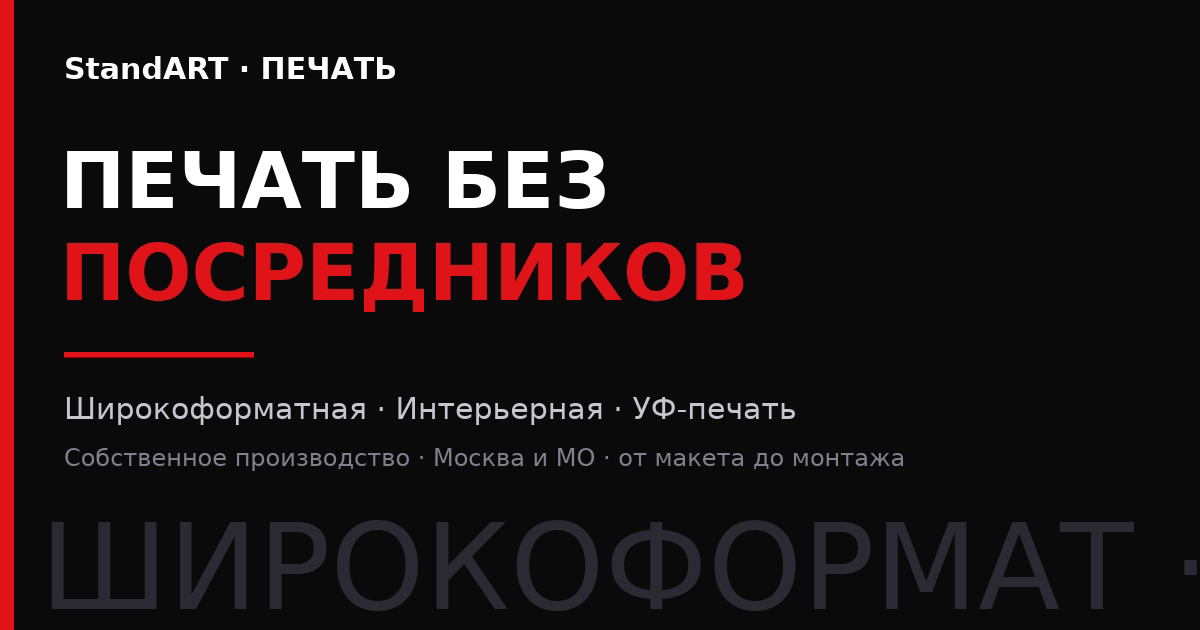
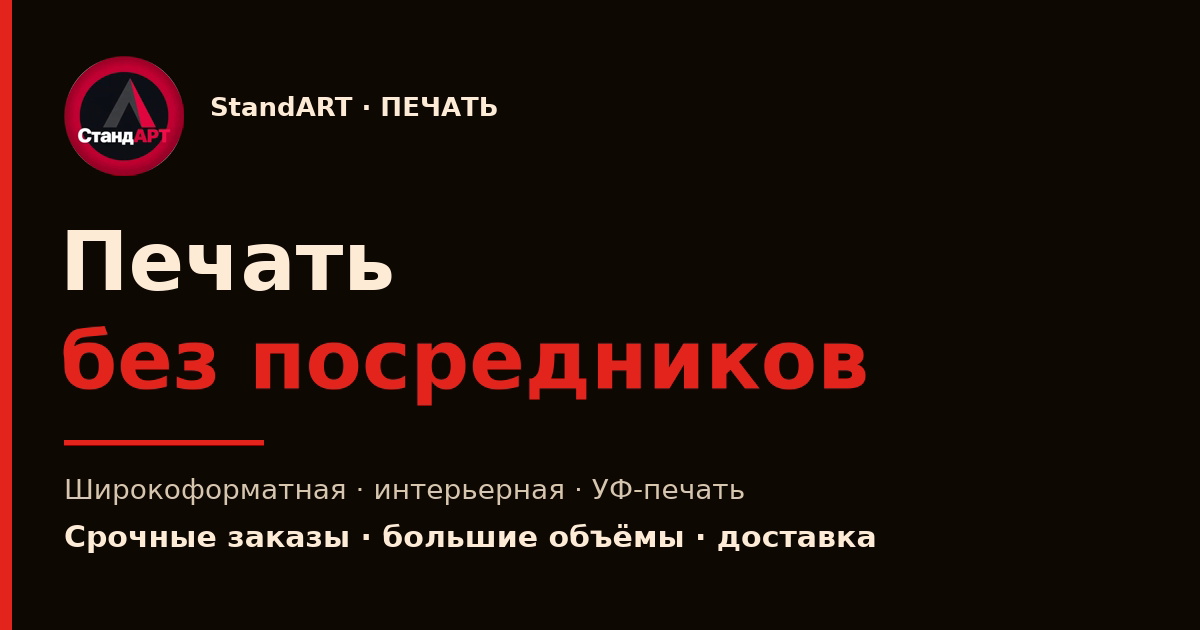
brand: палитра стандарт.art (walnut/cream/apple), Inter, логотип, срочность+объёмы+доставка, новый OG

diff --git a/index.html b/index.html
@@ -5,7 +5,7 @@
 <meta name="viewport" content="width=device-width, initial-scale=1">
 <title>StandART — широкоформатная, интерьерная и УФ-печать. Собственное производство, Москва и МО</title>
 <meta name="description" content="Широкоформатная печать баннеров и оклейки, интерьерная фотопечать, УФ-печать на ПВХ, акриле, композите, стекле и металле. Собственное производство. Замер, монтаж. Москва и МО.">
-<meta name="theme-color" content="#0a0a0b">
+<meta name="theme-color" content="#100904">
 <link rel="canonical" href="https://rekprint78-hub.github.io/standart-print/">
 <meta property="og:type" content="website">
 <meta property="og:title" content="StandART — печать без посредников">
@@ -17,24 +17,38 @@
 <meta name="twitter:card" content="summary_large_image">
 <link rel="preconnect" href="https://fonts.googleapis.com">
 <link rel="preconnect" href="https://fonts.gstatic.com" crossorigin>
-<link href="https://fonts.googleapis.com/css2?family=Montserrat:wght@400;500;600;700;800;900&display=swap" rel="stylesheet">
+<link href="https://fonts.googleapis.com/css2?family=Inter:wght@400;500;600;700;800&display=swap" rel="stylesheet">
 <style>
+  /* ============================================================
+     StandART design system — единая база для всех сайтов Игоря.
+     Палитра и шрифт сняты с эталона стандарт.art (Inter 400/500).
+     Тема сайта задаётся только через роли ниже (--bg, --ink, ...).
+     ============================================================ */
   :root{
-    --bg:#0a0a0b;
-    --panel:#101013;
-    --panel-2:#16161a;
-    --line:rgba(255,255,255,.10);
-    --line-strong:rgba(255,255,255,.24);
-    --ink:#ffffff;
-    --ink-soft:#c6c6cd;
-    --muted:#82828d;
-    --red:#e1151b;
-    --red-soft:#ff3b40;
+    /* --- бренд-палитра --- */
+    --walnut:#100904;   /* основной тёмный фон */
+    --cream:#ffedd7;    /* основной текст */
+    --apple:#e3261c;    /* красный акцент (CTA, маркеры) */
+    --ember:#dc5000;    /* оранжевый акцент (второй план) */
+    --bark:#382416;
+    --cork:#40372e;
+    --drift:#6c5f51;
+    /* --- роли темы --- */
+    --bg:var(--walnut);
+    --panel:#1a0f07;
+    --panel-2:#241408;
+    --line:rgba(255,237,215,.12);
+    --line-strong:rgba(255,237,215,.28);
+    --ink:var(--cream);
+    --ink-soft:#d8c7b0;
+    --muted:#9a8b76;
+    --red:var(--apple);
+    --red-soft:#ff5a3c;
     --radius:16px;
     --pad:clamp(16px,3.6vw,56px);
     --maxw:1400px;
     color-scheme:dark;
-    --font:'Montserrat',-apple-system,BlinkMacSystemFont,'Segoe UI',Roboto,Arial,sans-serif;
+    --font:'Inter',-apple-system,BlinkMacSystemFont,'Segoe UI',Roboto,Arial,sans-serif;
   }
   *,*::before,*::after{box-sizing:border-box}
   html,body{height:100%}
@@ -48,9 +62,9 @@
   button{font-family:inherit}
   h1,h2,h3{margin:0;line-height:1.02;font-weight:900;letter-spacing:-.025em;text-transform:uppercase;text-wrap:balance}
   p{margin:0;text-wrap:pretty}
-  :focus-visible{outline:2px solid #fff;outline-offset:3px;border-radius:6px}
+  :focus-visible{outline:2px solid var(--cream);outline-offset:3px;border-radius:6px}
   .sr{position:absolute;width:1px;height:1px;overflow:hidden;clip:rect(0 0 0 0);white-space:nowrap}
-  .skip{position:absolute;left:-9999px;top:0;z-index:200;background:#fff;color:#000;padding:12px 18px;font-weight:700}
+  .skip{position:absolute;left:-9999px;top:0;z-index:200;background:var(--cream);color:var(--walnut);padding:12px 18px;font-weight:700}
   .skip:focus{left:12px;top:12px}
   .wrap{width:100%;max-width:var(--maxw);margin:0 auto;padding-inline:var(--pad)}
 
@@ -65,12 +79,12 @@
   .screen::before{
     content:"";position:absolute;inset:0;pointer-events:none;
     background:
-      radial-gradient(1100px 620px at 88% -12%, rgba(225,21,27,.20), transparent 62%),
-      radial-gradient(700px 420px at -6% 108%, rgba(225,21,27,.10), transparent 65%);
+      radial-gradient(1100px 620px at 88% -12%, rgba(227,38,28,.22), transparent 62%),
+      radial-gradient(700px 420px at -6% 108%, rgba(220,80,0,.12), transparent 65%);
   }
   .screen::after{
     content:"";position:absolute;inset:0;pointer-events:none;opacity:.5;
-    background-image:radial-gradient(rgba(255,255,255,.13) 1px, transparent 1px);
+    background-image:radial-gradient(rgba(255,237,215,.13) 1px, transparent 1px);
     background-size:22px 22px;
     mask-image:linear-gradient(180deg, transparent 0%, #000 30%, #000 70%, transparent 100%);
     -webkit-mask-image:linear-gradient(180deg, transparent 0%, #000 30%, #000 70%, transparent 100%);
@@ -78,11 +92,14 @@
   .screen > *{position:relative;z-index:1}
 
   /* ============ HEADER ============ */
-  header{border-bottom:1px solid var(--line);background:rgba(10,10,11,.72);backdrop-filter:blur(12px)}
+  header{border-bottom:1px solid var(--line);background:rgba(16,9,4,.72);backdrop-filter:blur(12px)}
   .hdr{display:flex;align-items:center;gap:18px;padding-block:clamp(10px,1.6vh,18px)}
   .brand{display:flex;align-items:baseline;gap:10px;white-space:nowrap}
-  .logo{font-weight:900;font-size:clamp(19px,2.2vh,25px);letter-spacing:-.04em;text-transform:uppercase}
+  .logo{font-weight:800;font-size:clamp(19px,2.2vh,25px);letter-spacing:-.04em;text-transform:uppercase}
   .logo span{color:var(--red)}
+  .brand img.logo{width:clamp(36px,4.4vh,46px);height:auto;aspect-ratio:1;border-radius:50%;flex:none;
+    box-shadow:0 0 0 1.5px rgba(255,237,215,.45);transition:transform .25s ease}
+  .brand:hover img.logo{transform:scale(1.06) rotate(-6deg)}
   .tag{
     font-size:10.5px;font-weight:700;letter-spacing:.2em;text-transform:uppercase;
     color:var(--muted);border-left:1px solid var(--line-strong);padding-left:10px;
@@ -94,12 +111,12 @@
   .btn{
     display:inline-flex;align-items:center;justify-content:center;gap:9px;
     min-height:50px;padding:0 26px;border-radius:999px;border:1px solid transparent;
-    font-weight:700;font-size:14.5px;cursor:pointer;background:var(--red);color:#fff;
+    font-weight:700;font-size:14.5px;cursor:pointer;background:var(--red);color:var(--cream);
     transition:transform .18s ease,background .2s ease,color .2s ease,border-color .2s ease;
   }
   .btn:hover{background:var(--red-soft);transform:translateY(-1px)}
   .btn--ghost{background:transparent;border-color:var(--line-strong)}
-  .btn--ghost:hover{background:#fff;color:#000;border-color:#fff}
+  .btn--ghost:hover{background:var(--cream);color:var(--walnut);border-color:var(--cream)}
   .btn--sm{min-height:44px;padding:0 20px;font-size:13.5px}
   .btn--block{width:100%}
 
@@ -127,7 +144,7 @@
     border:1px solid var(--line);border-radius:999px;padding:7px 13px;
     background:rgba(255,255,255,.02);white-space:nowrap;
   }
-  .fact b{color:#fff;font-weight:700}
+  .fact b{color:var(--cream);font-weight:700}
   .cta{display:flex;flex-wrap:wrap;gap:12px;margin-top:clamp(16px,2.6vh,30px)}
 
   /* ============ SERVICES ============ */
@@ -156,22 +173,22 @@
   .svc li::before{content:"";position:absolute;left:0;top:.62em;width:5px;height:5px;border-radius:50%;background:var(--red);opacity:.75}
   .svc-go{
     display:inline-flex;align-items:center;gap:7px;
-    font-size:12.5px;font-weight:700;color:#fff;white-space:nowrap;
+    font-size:12.5px;font-weight:700;color:var(--cream);white-space:nowrap;
     border:1px solid var(--line-strong);border-radius:999px;padding:9px 15px;
     transition:background .2s ease,color .2s ease,border-color .2s ease;
   }
-  .svc:hover .svc-go,.svc-go:hover{background:#fff;color:#000;border-color:#fff}
+  .svc:hover .svc-go,.svc-go:hover{background:var(--cream);color:var(--walnut);border-color:var(--cream)}
   .svc-go svg{width:13px;height:13px;flex:none}
 
   /* ============ BOTTOM BAR ============ */
   .bar{
-    border-top:1px solid var(--line);background:rgba(16,16,19,.75);backdrop-filter:blur(12px);
+    border-top:1px solid var(--line);background:rgba(16,9,4,.78);backdrop-filter:blur(12px);
     padding-block:clamp(9px,1.5vh,16px);
   }
   .bar-in{display:flex;align-items:center;gap:clamp(10px,2.2vw,34px);flex-wrap:wrap}
   .bar-item{display:flex;align-items:center;gap:8px;font-size:13px;font-weight:600;color:var(--ink-soft);white-space:nowrap}
   .bar-item svg{width:15px;height:15px;flex:none;color:var(--red)}
-  .bar-item a:hover{color:#fff}
+  .bar-item a:hover{color:var(--cream)}
   .bar-sep{width:1px;height:20px;background:var(--line)}
   .bar-in .btn{margin-left:auto}
   .bar-hint{font-size:12px;color:var(--muted);white-space:nowrap}
@@ -189,11 +206,11 @@
     margin-left:auto;background:transparent;border:1px solid var(--line);border-radius:10px;
     width:36px;height:36px;color:var(--ink-soft);cursor:pointer;font-size:18px;line-height:1;flex:none;
   }
-  .m-close:hover{border-color:var(--line-strong);color:#fff}
+  .m-close:hover{border-color:var(--line-strong);color:var(--cream)}
   .m-body{padding:18px 24px 24px;display:grid;gap:12px}
   label{display:grid;gap:6px;font-size:12px;font-weight:700;letter-spacing:.04em;text-transform:uppercase;color:var(--muted)}
   input,select,textarea{
-    font-family:inherit;font-size:14px;color:#fff;background:#0c0c0e;
+    font-family:inherit;font-size:14px;color:var(--cream);background:#140b04;
     border:1px solid var(--line);border-radius:11px;padding:12px 14px;width:100%;
     transition:border-color .18s ease;
   }
@@ -238,10 +255,10 @@
 
   <header>
     <div class="wrap hdr">
-      <div class="brand">
-        <span class="logo">Stand<span>ART</span></span>
+      <a class="brand" href="./" aria-label="StandART — печать">
+        <img class="logo" src="assets/logo_standart.webp" alt="StandART" width="120" height="120">
         <span class="tag">Печать</span>
-      </div>
+      </a>
       <div class="hdr-right">
         <span class="hdr-note">Собственное производство · Москва и МО</span>
         <a class="hdr-phone" data-phone-link href="tel:+70000000000" data-phone-text>+7 (000) 000-00-00</a>
@@ -259,13 +276,14 @@
           <h1>Печать<br>без <em>посредников</em></h1>
           <p class="lead">
             Баннеры и оклейка, интерьерные фотопанно, УФ-печать на твёрдых материалах.
-            Один подрядчик от макета до монтажа — без перепродажи и накруток.
+            Берём <b>срочные заказы</b> и <b>большие объёмы</b>, доставляем по Москве и МО,
+            считаем смету в течение часа. Один подрядчик от макета до монтажа — без посредников и накруток.
           </p>
           <div class="facts">
-            <span class="fact"><b>от 1 дня</b> срочные тиражи</span>
-            <span class="fact">рулон <b>до 3,2 м</b>, сварка полотна</span>
-            <span class="fact">замер, монтаж, демонтаж</span>
-            <span class="fact">тираж <b>от 1 шт.</b></span>
+            <span class="fact"><b>Срочные заказы</b> — тиражи от 1 дня</span>
+            <span class="fact"><b>Большие объёмы</b> — рулон до 3,2 м, сварка полотна</span>
+            <span class="fact"><b>Доставка</b> по Москве и МО</span>
+            <span class="fact"><b>Оперативность</b> — смета за час</span>
           </div>
           <div class="cta">
             <button class="btn" type="button" data-open-modal>Рассчитать тираж</button>
@@ -348,7 +366,12 @@
         <svg viewBox="0 0 24 24" fill="none" stroke="currentColor" stroke-width="2" aria-hidden="true"><path d="M3 6h18v12H3z"/><path d="m3 7 9 6 9-6"/></svg>
         <a data-mail-link href="#" data-mail-text>—</a>
       </span>
-      <span class="bar-hint">Позвоните — посчитаем за 15 минут</span>
+      <span class="bar-sep" aria-hidden="true"></span>
+      <span class="bar-item">
+        <svg viewBox="0 0 24 24" fill="none" stroke="currentColor" stroke-width="2" aria-hidden="true"><path d="M1 7h12v8H1z"/><path d="M13 10h4l3 3v2h-7z"/><circle cx="5" cy="17" r="2"/><circle cx="16" cy="17" r="2"/></svg>
+        Доставка по Москве и МО
+      </span>
+      <span class="bar-hint">Смета за час · срочные заказы</span>
       <button class="btn btn--sm" type="button" data-open-modal>Рассчитать тираж</button>
     </div>
   </div>
